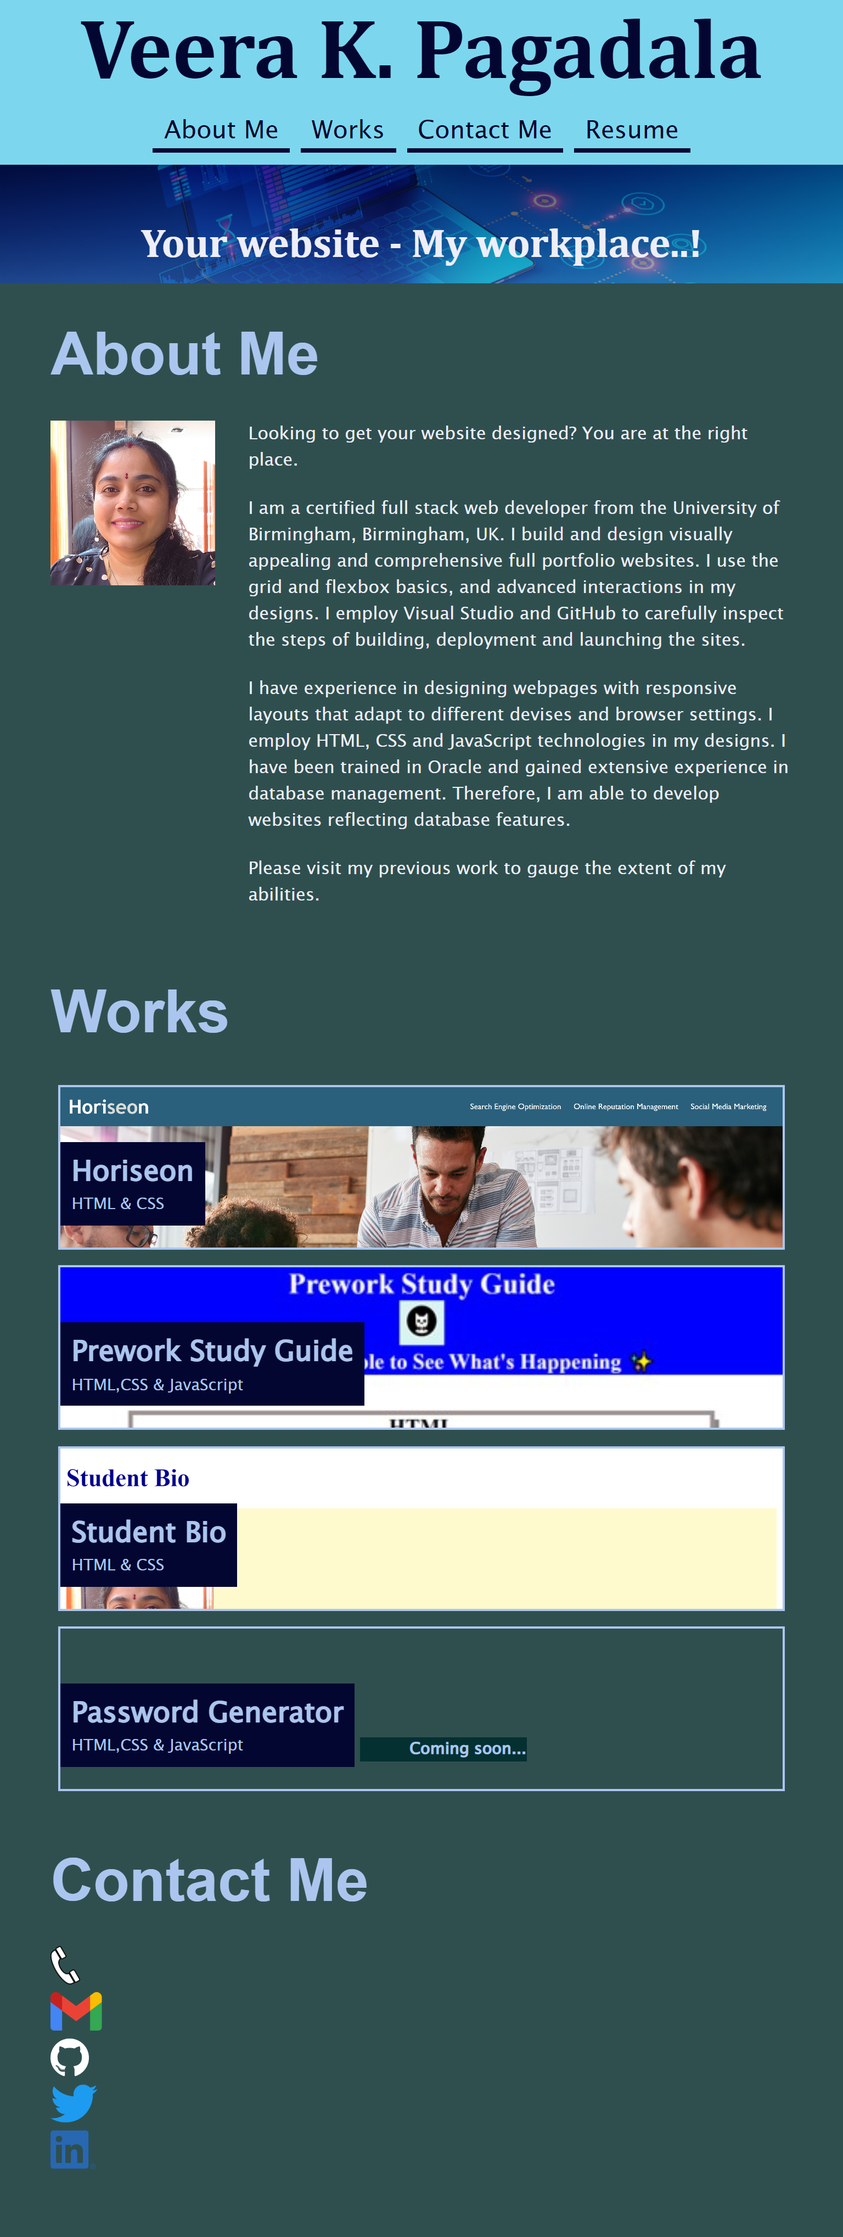
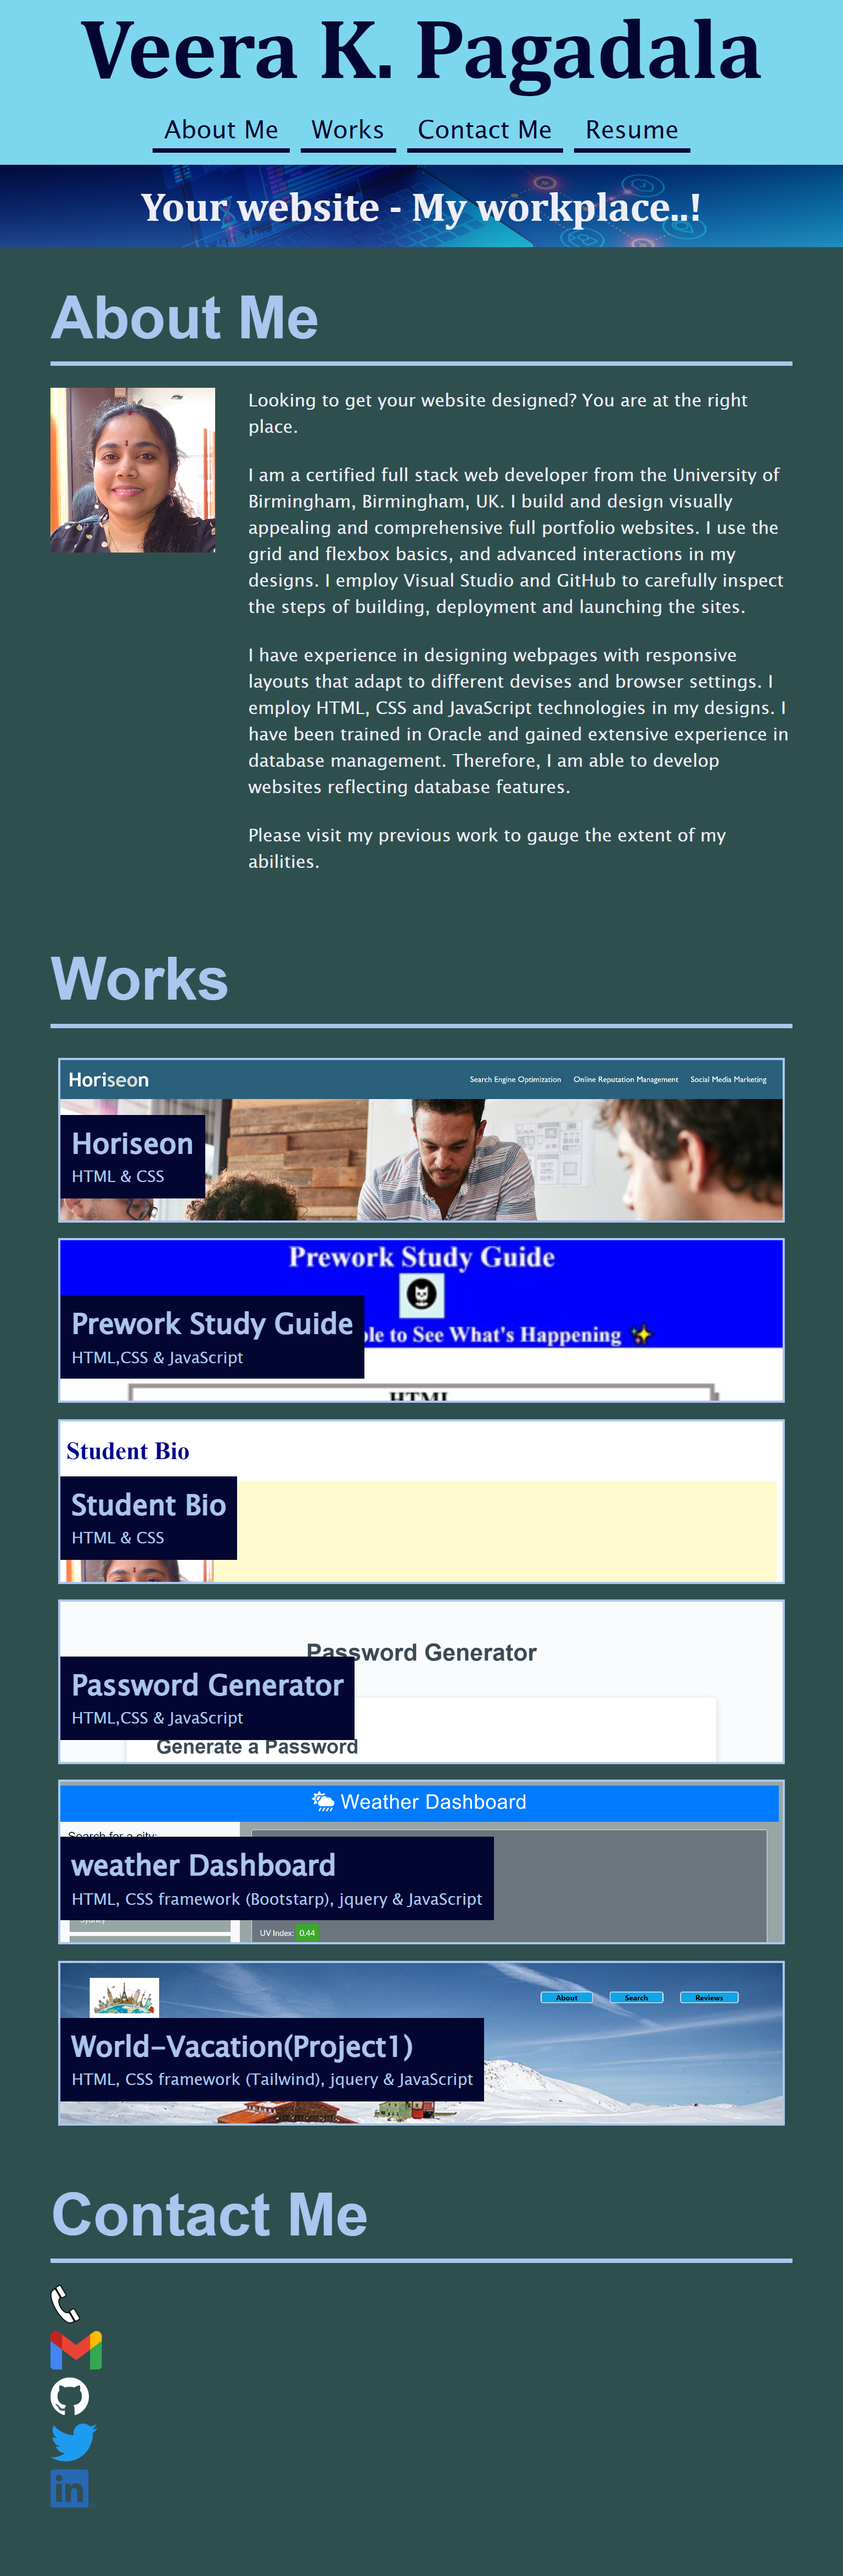
Profile & README file updated

diff --git a/index.html b/index.html
@@ -74,17 +74,23 @@
           </div>
         </a>
         <!-- The password generator is coming soon. So, it is hidden upon hovering -->
-        <a href="https://veerak21.github.io/pwd-gen" target=_blank class="flex-item pwd">
+        <a href="https://veerak21.github.io/pwd-gen/" target=_blank class="flex-item pwd">
           <div>
             <h3>Password Generator</h3>
             <span>HTML,CSS & JavaScript</span>
           </div>
         </a>
-         
-         <a href="https://veerak21.github.io/world-vacation" target=_blank class="flex-item world-vacation">
+        <a href="https://veerak21.github.io/weather-dashboard/" target=_blank class="flex-item weather-dashboard">
           <div>
-            <h3>world-Vacation</h3>
-            <span>HTML,Tailwind CSS & JavaScript</span>
+            <h3>weather Dashboard</h3>
+            <span>HTML, CSS framework (Bootstarp), jquery & JavaScript</span>
+          </div>
+        </a>
+         
+         <a href="https://veerak21.github.io/world-vacation/" target=_blank class="flex-item world-vacation">
+          <div>
+            <h3>World-Vacation(Project1)</h3>
+            <span>HTML, CSS framework (Tailwind), jquery & JavaScript</span>
           </div>
         </a>
       </div>

diff --git a/assets/css/style.css b/assets/css/style.css
@@ -241,7 +241,7 @@
   /* portfolio project images */
  
   .horiseon {
-    background-image: url("../images/image.jpg");
+    background-image: url("../images/img3.jpg");
     background-position:top;
     background-repeat: no-repeat;
     background-size:cover;
@@ -264,11 +264,20 @@
   }
   .pwd {
 
-    background-image: url("../images/img7.png");
+    background-image: url("../images/img6.png");
     background-position:top;
     background-repeat: no-repeat;
     background-size:cover;
     }  
+
+    .weather-dashboard {
+
+      background-image: url("../images/img7.png");
+      background-position:top;
+      background-repeat: no-repeat;
+      background-size:cover;
+  
+      }
 
     .world-vacation {
 
@@ -278,6 +287,7 @@
     background-size:cover;
 
     }
+    
    /* end of portfolio project images */
 
   /*media queries with styles for 980px display devices.*/

diff --git a/README.md b/README.md
@@ -9,13 +9,22 @@ Using this project will give new developers an idea of the fundamnetal principle
 ## Credits:
 Thanks to Instructor Mahyar Mottaghi Zadeh for providing relevent training and rescources for this project.
 
-## Website URL and imange:
+## Website URL and imanges:
 
 https://veerak21.github.io/portfolio/
+
+
+![screenshot-of-applicaton](./assets/images/screenshot.png)
+
+
+
+
+
 
 980px screenshot
 
 ![screenshot-of-applicaton](./assets/images/980px.png)
+
 
 
 768px screenshot
